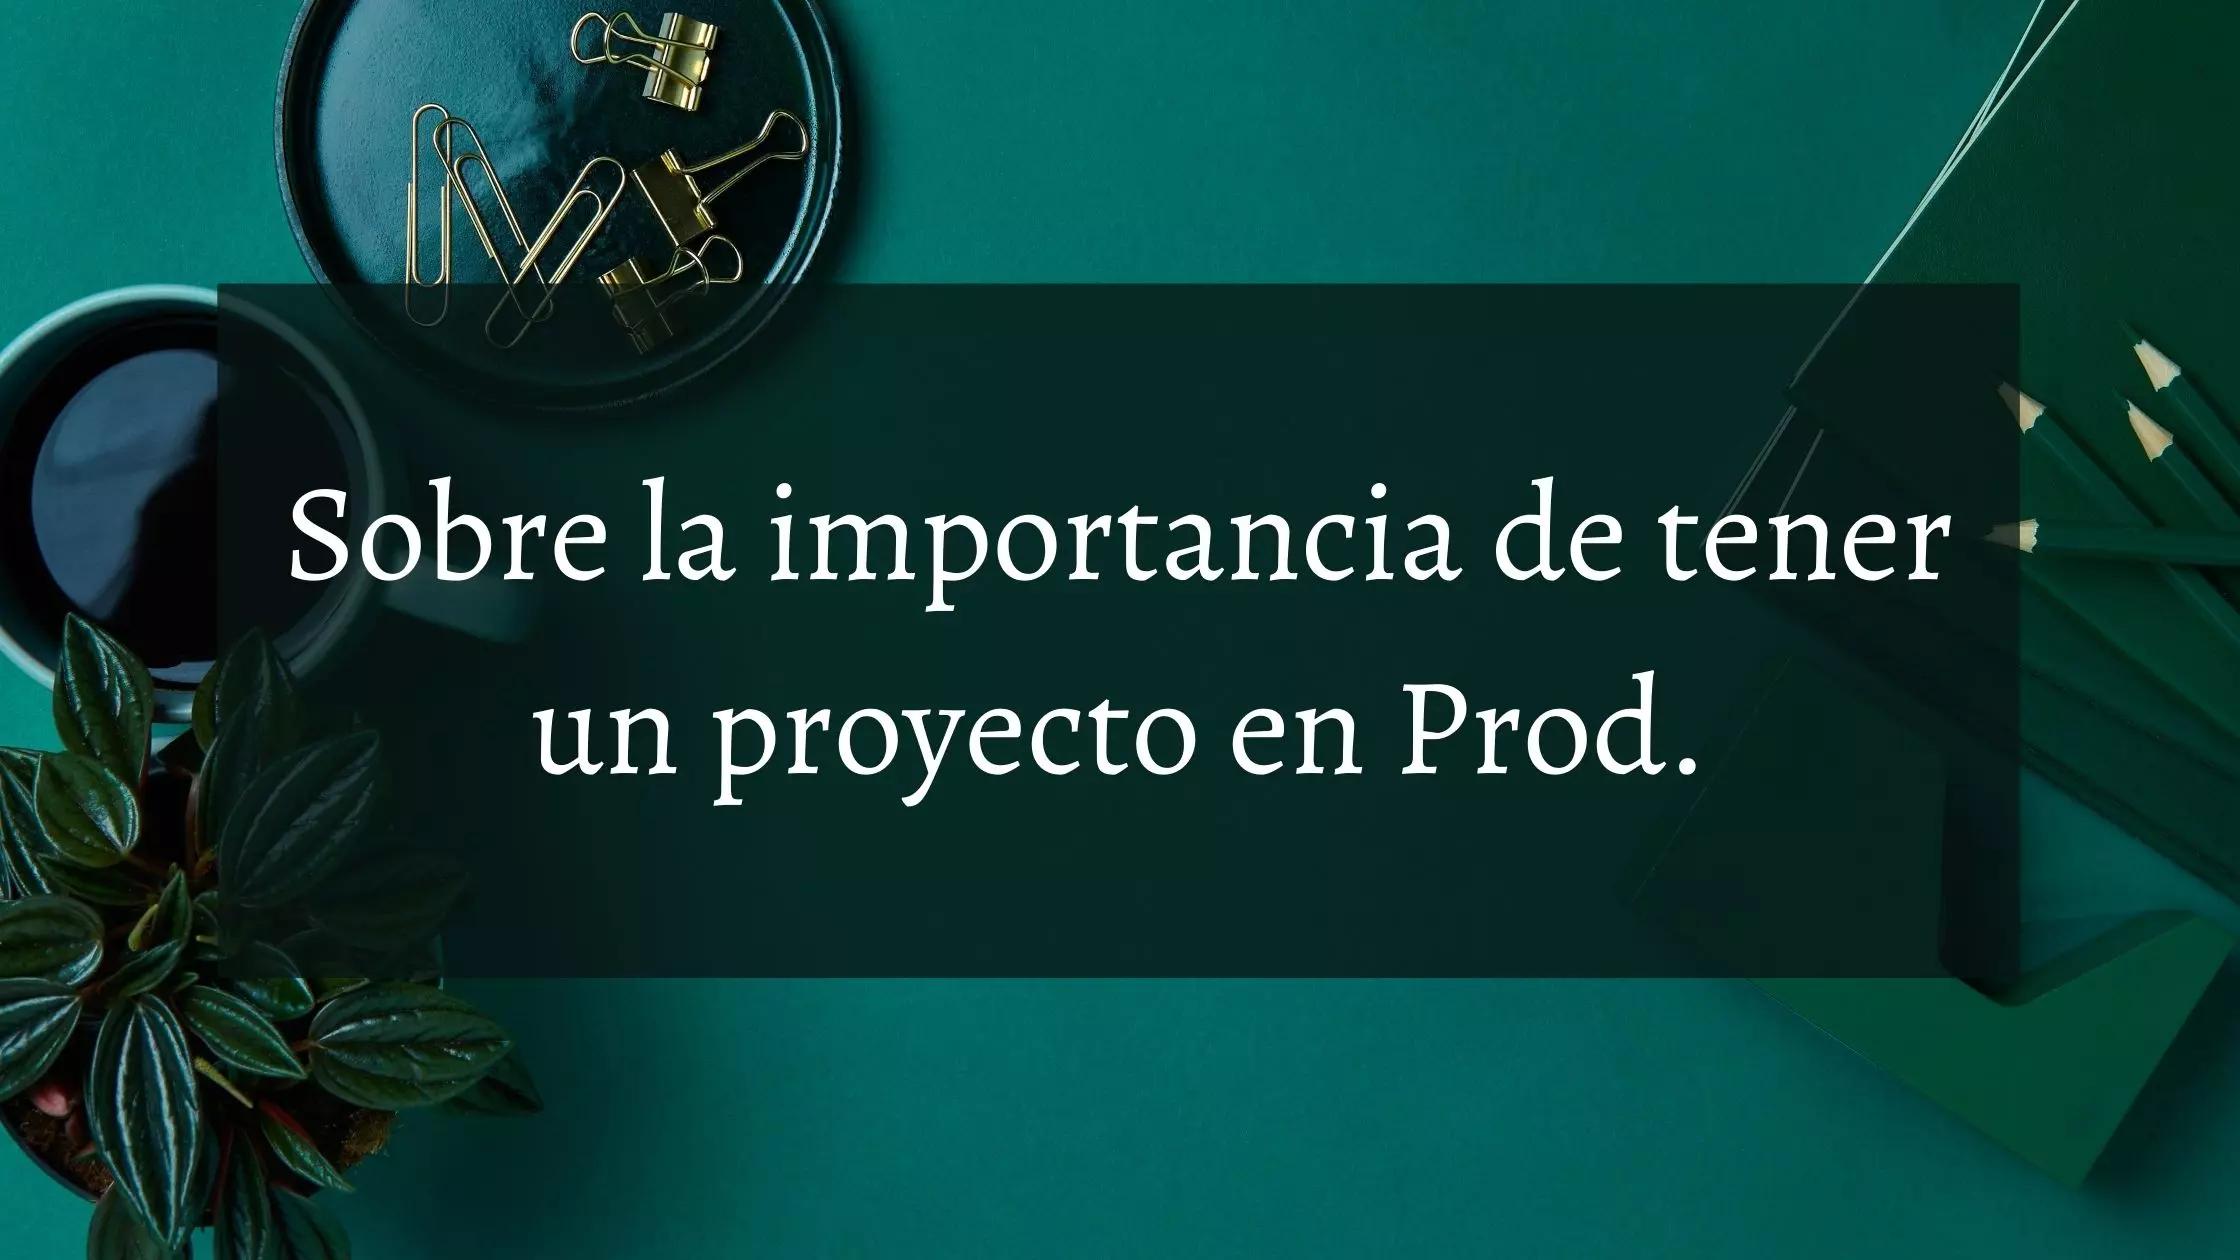
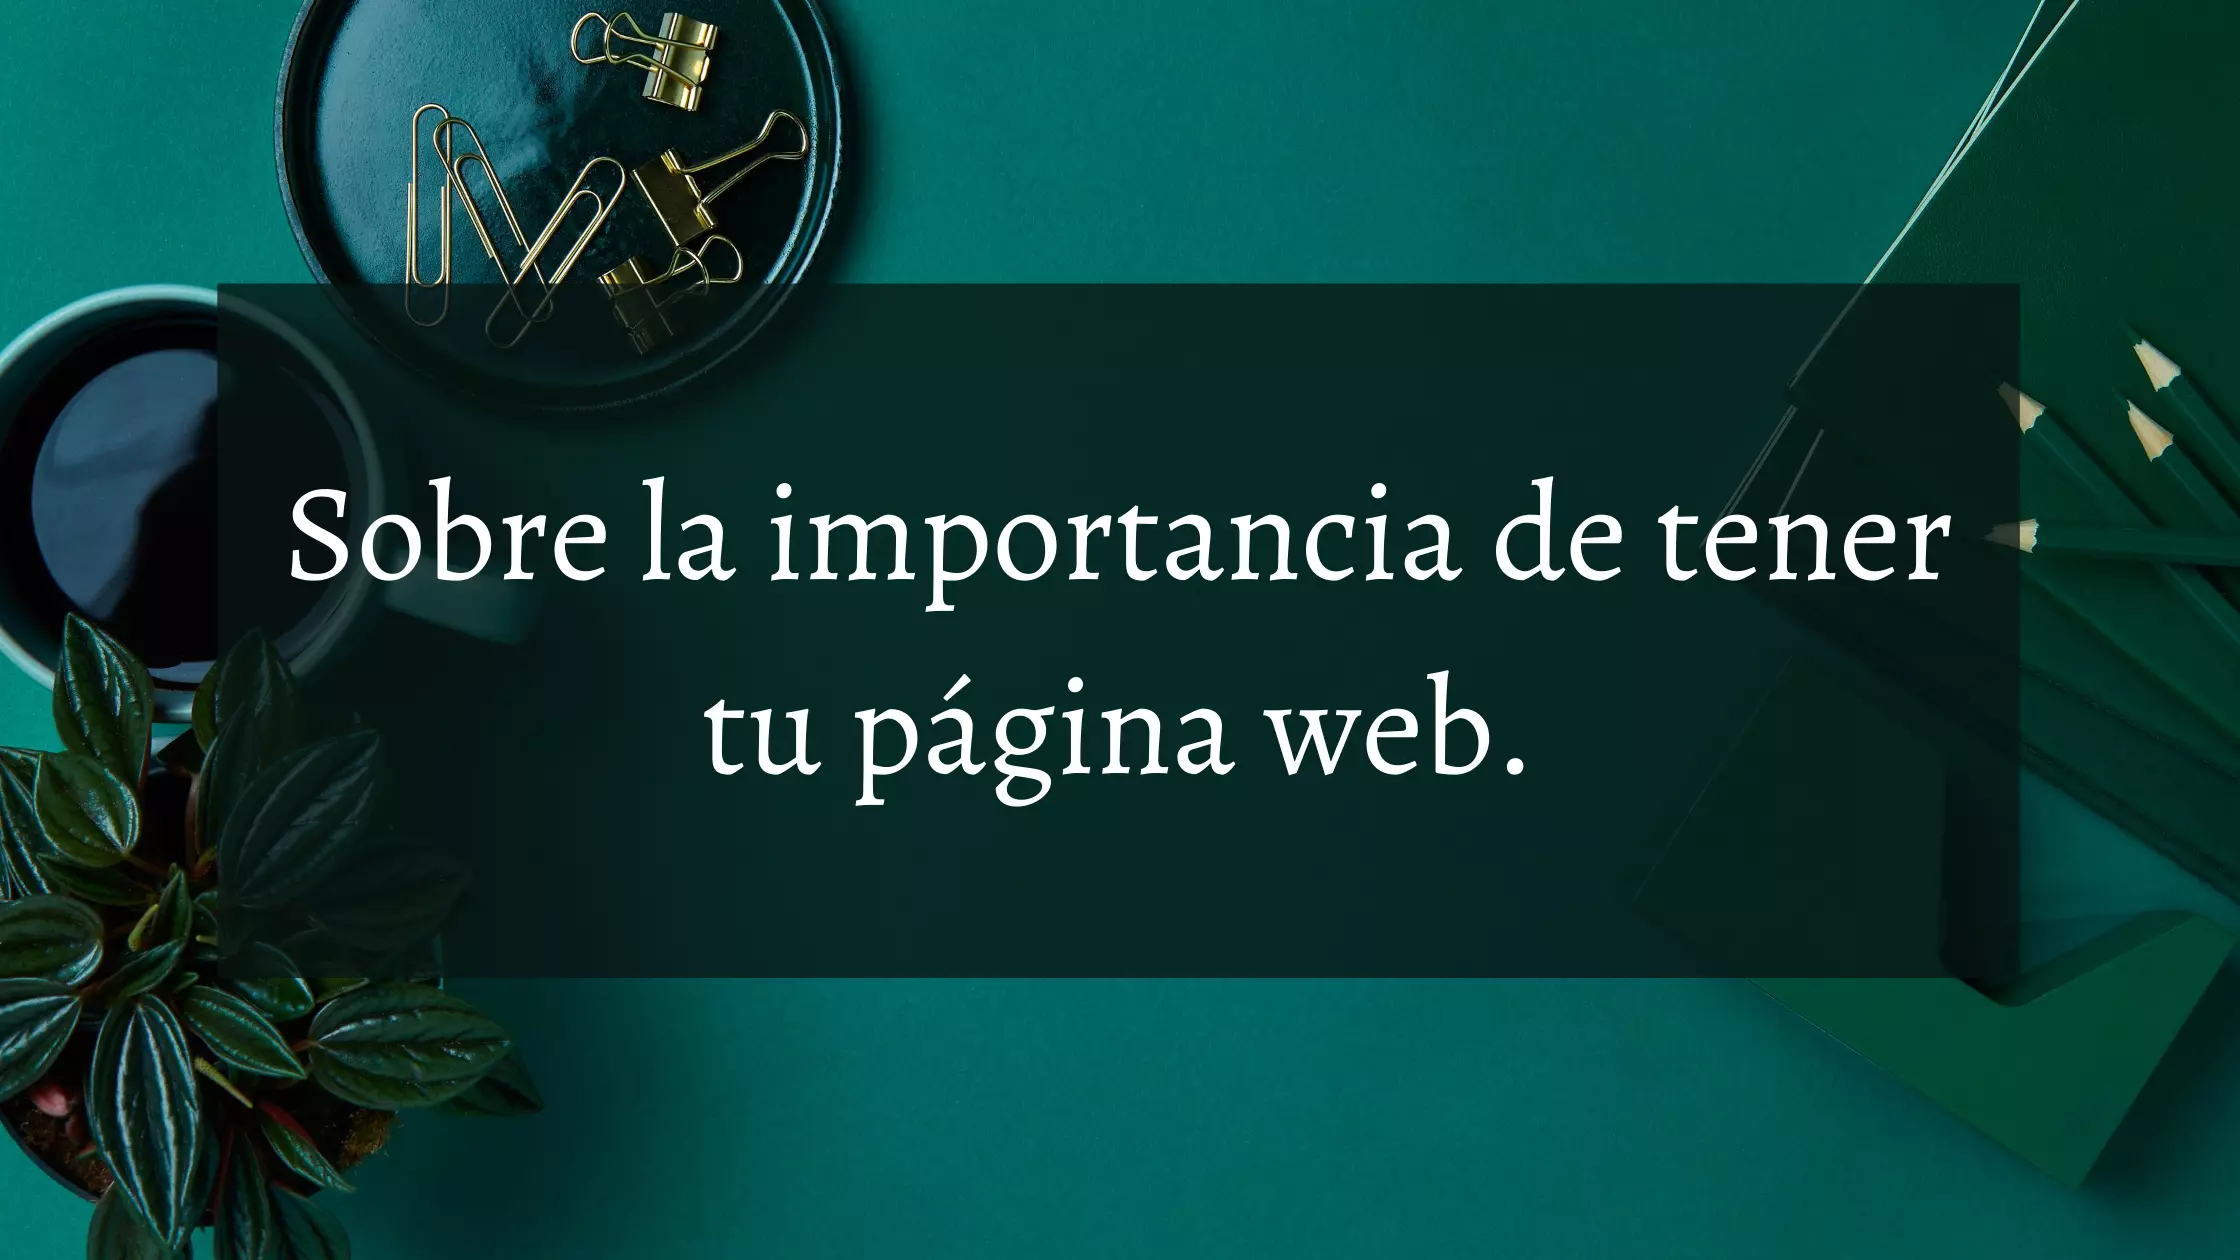
nuevo post

Changed region(s): [[0.2188, 0.5262, 0.75, 0.65]]

diff --git a/_includes/head_post.html b/_includes/head_post.html
@@ -2,7 +2,7 @@
 <head>
   {% include head.html %}
   <link
-     href="https://fonts.googleapis.com/css2?family=Lato:ital,wght@0,400;0,700;1,400;1,700&family=Open+Sans:ital,wght@0,400;0,700;1,400;1,700&display=swap"
+     href="https://fonts.googleapis.com/css2?family=Lato:ital,wght@0,400;0,700;1,400;1,700&family=Open+Sans:ital,wght@0,400;0,700;1,400;1,700&family=Noto+Serif+JP:wght@400&display=swap"
      rel="stylesheet">
   <link rel="stylesheet" type="text/css" media="screen" href="{{ '/assets/css/main.css' | prepend: site.baseurl }}"/>
   <link rel="stylesheet" type="text/css" media="screen" href="{{ '/assets/css/prism.css' | prepend: site.baseurl }}"/>

diff --git a/assets/css/main.sass b/assets/css/main.sass
@@ -142,6 +142,7 @@ body
       border-left: 3px solid #57ad68
       padding-left: 20px
       p
+        font-family: Noto Serif JP, sans-serif
         letter-spacing: 0.01rem
         font-weight: 400
         font-style: italic

diff --git a/_drafts/sobre-la-importancia-de-tener-un-proyecto-en-Prod.md b/_drafts/sobre-la-importancia-de-tener-un-proyecto-en-Prod.md
@@ -1,0 +1,133 @@
+---
+layout: post
+title: "sobre la importancia de tener un proyecto en Prod"
+comments: true
+date:   2020-08-17 12:00:00 -0300
+url: "https://www.nahuelbrandan.com/2020/08/17/sobre-la-importancia-de-tener-tu-pagina-web.html"
+identifier: "/sobre-la-importancia-de-tener-tu-pagina-web.html"
+image: "/assets/img/posts/prod.webp"
+hide_title: true
+---
+
+Si te encuentras en el mundo de la informática, considero que es muy didáctico el tener alguna página web en 
+producción, es decir, accesible al público en general. 
+
+No importa tanto la temática, ya sea un sitio web sobre el tema que te interese, una página personal para muestra 
+de portfolio, un juego, un blog, lo que sea.
+
+Una vez comenzado con el proyecto, empezás a notar diferentes temas necesarios a desarrollar.
+
+---
+
+Te voy a contar mi caso, desarrollando este propio sitio web y los temas que fui aprendiendo en el camino.
+
+#### Hosting.
+Indica donde se alojará tu sitio web. Existen muchos servicios disponibles, con un coste desde unos $3 USD al mes.
+
+Yo elegí el servicio [Github Pages](https://pages.github.com/). Es gratis, de calidad y práctico dado que se 
+administra directamente desde un repositorio de _Github_.
+
+#### Dominio.
+_Github Pages_ te provee una URL por defecto para acceder desde la web a tu sitio, es de la forma: 
+_https://username.github.io_ o _https://username.github.io/repository-name/_, los cuales estan bien, pero si queremos tener 
+una URL más profesional tenemos que comprar un dominio y vincularlo con el repositorio.
+
+Yo lo compré en [Hostinger](https://www.hostinger.com.ar/), con un costo de +-$600 ARS por año ~= $8 USD. Siendo éste 
+mi único gasto fijo.
+
+#### SEO.
+>> El mejor lugar para esconder un cadaver es en la segunda página de Google.
+
+SEO (Search Engine Optimization) es la optimización en los motores de búsquedas.
+
+Queremos que nuestro proyecto aparezca en las primeras posiciones de Google y el resto de los buscadores, para eso hay 
+que hacer la tarea y aplicar todas las mejoras de SEO que son recomendadas.
+
+#### Responsive.
+
+El consumo desde dispositivos móviles desde hace años esta en aumento, por lo tanto es muy valioso que nuestro 
+sitio web este adaptado tambien para poder visualizarse correctamente en estos dispositivos.
+
+A esto es a lo que se refiere con _Responsive Design._
+
+[Bootstrap](https://getbootstrap.com/) es una librería muy utilizada para lograrlo.
+
+#### Performance.
+El tiempo de carga del sitio web es una característica importante, si demora mucho en cargar el usuario puede terminar 
+yéndose de tu sitio. 
+
+Amazon analizó que pierde el 1% de sus ventas por cada 100ms de tiempo de carga, lo cual es mucho dinero.
+
+Formas de mejorar la performance: Que las imagenes tengan un formato y tamaño apropiado, optimizar los archivos 
+estáticos utilizados, entre otros.
+
+---
+
+[Lighthouse](https://developers.google.com/web/tools/lighthouse) Es una herramienta para analizar el desempeño de tu 
+web en estas áreas.
+
+Este es el resultados obtenidos en mi página:
+
+![Desempeño de la página]({{"/assets/img/site/desempeño.webp"}})
+
+Los cuales son valores excelentes!.
+
+#### Interactividad.
+_Github Pages_ sólo permite sitios estáticos. Como no hay un backend al cual puedas consultar no puede permitir 
+interactividad, es decir que el usuario no puede comunicarse de manera recíproca, por ejemplo dejando un comentario en 
+un artículo, o llenar un formulario.
+
+Para resolver este problema existen herramientas externas, que te permiten añadirlas a tu sitio para agregar funcionalidades.
+
+Por ejemplo yo utilizo [Disqus](https://disqus.com/) para agregar una caja de comentarios al final de los artículos.
+
+Tambien uso [Formspree](https://formspree.io/) para formularios de contacto.
+
+#### Detalles.
+>> La excelencia se muestra en los detalles.
+
+Te vas a encontrar con múltiples detalles durante tu desarrollo, es inevitable. Enfrentar cada uno de ellos aumentará 
+nuestro conocimiento.
+
+Por ejemplo:
+* ¿Cómo hago para que la barra de navegación desaparezca cuando scrolleo hacia abajo y aparezca cuando scrolleo hacia 
+arriba? Tal como se hace en muchos sitios.
+* ¿Cómo hago para que las imágenes se muestren de cierto tamaño?
+* ¿Qué tipografía me conviene? Podes ver opciones en [Google Fonts](https://fonts.google.com/).
+* ¿Cómo definir la imagen que va en la cabecera? Se llama _favicon_.
+  ![favicon]({{"/assets/img/elements_in_posts/fav.webp"}})
+
+#### Escritura.
+¿Qué tienen los grandes escritores que no tiene uno? me supe preguntar. Si utilizan las mismas palabras que uno, el 
+mismo lenguaje, por que a ellos les sale tan bien?, ¿Cuál es el secreto?!
+
+Probablemente la misma duda te surja a vos al querer escribir posts.
+
+El consejo principal es que tenes que leer mucho y escribir mucho.
+
+Stephen King tiene un excelente libro sobre la escritura. ver: [On Writing (Mientras escribo)](http://biblioteka.teatr-obraz.ru/files/file/English_cinema/Stephen_King_On_Writing.pdf)
+
+#### Diseño.
+Una forma de aprender es viendo lo proyectos de otros, para usarlos como fuentes de inspiración a nivel de diseño. En 
+[awwwards](https://www.awwwards.com/) podes ver sitios de otros con gran diseño.
+
+Por otro lado, ¿Como hago imágenes con diseño? yo utilizo [Canva](https://www.canva.com/), gran herramienta e intuitiva.
+
+#### Themes - Temas.
+A veces es útil en vez de arrancar de cero todo el sitio web, comenzar a partir de un template, un Theme-(Tema) 
+que alguien más haya creado, el cual vos lo adaptarías a tus gustos.
+
+En [Bootstrapmade](https://bootstrapmade.com/) podes ver algunos.
+
+Otras herramienta que me sirvió es [bootstrap studio](https://bootstrapstudio.io/)
+
+### Conclusiones.
+Emprende el proyecto, y sobre las marcha vas a ir resolviendo éstos y muchos conflictos más; va a ser un camino duro 
+pero de puro aprendizaje.
+
+Mostrame tu proyecto, lo revisaré con mucho gusto!.
+
+Éxitos y dale para adelante!
+
+---
+---
